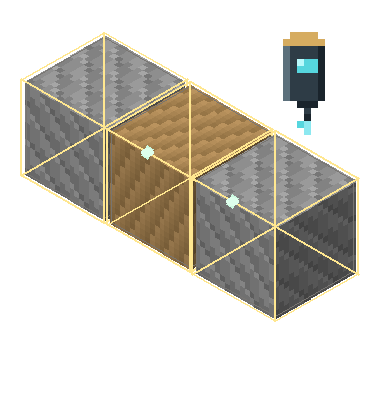
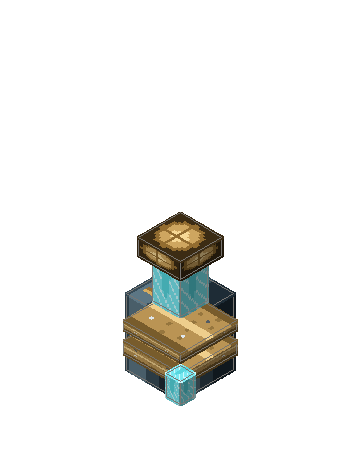
v0.9.1: 接着剤を 3D アイテムモデルに（アトラス1枚＋elements 8個）

diff --git a/tools/generate_textures.py b/tools/generate_textures.py
@@ -761,3 +761,100 @@ make_engine_part_textures()
 
 
 
+
+
+# ----------------------------------------------------------------------
+# 接着剤（3D モデル用アトラス）
+#   1 枚の PNG（64x32）に 4 セルをまとめ、UV を切り替えて組み立てる
+#     (0,0) キャップ上面 / (1,0) 金属の帯 / (2,0) ボトル側面 / (3,0) 接着剤の帯
+# ----------------------------------------------------------------------
+def make_adhesive_atlas():
+    CELL = SIZE  # 16
+    atlas = Image.new("RGBA", (CELL * 4, CELL * 2), (0, 0, 0, 0))
+
+    # --- (0,0) 真鍮のキャップ上面 ---
+    cap = Image.new("RGBA", (CELL, CELL))
+    cap_hi = (246, 216, 150, 255)
+    cap_mid = (206, 166, 96, 255)
+    cap_low = (146, 108, 48, 255)
+    for y in range(CELL):
+        for x in range(CELL):
+            d = math.hypot(x - 7.5, y - 7.5)
+            if d > 6.6:
+                c = (60, 44, 20, 255)
+            elif d > 5.2:
+                c = cap_low
+            elif d > 2.6:
+                c = cap_mid
+            else:
+                c = cap_hi
+            cap.putpixel((x, y), c)
+    # 十字の溝
+    for i in range(3, 13):
+        cap.putpixel((i, 7), cap_low)
+        cap.putpixel((7, i), cap_low)
+    atlas.paste(cap, (0, 0))
+
+    # --- (1,0) 金属の帯（バンド） ---
+    band = Image.new("RGBA", (CELL, CELL))
+    for y in range(CELL):
+        for x in range(CELL):
+            v = (186, 148, 84, 255)
+            if y in (0, 1, 14, 15):
+                v = (120, 92, 44, 255)
+            elif y in (7, 8):
+                v = (238, 206, 140, 255)
+            elif (x * 3 + y) % 13 == 0:
+                v = (150, 118, 62, 255)
+            band.putpixel((x, y), v)
+    # ボルト
+    for bx in (3, 12):
+        band.putpixel((bx, 4), (222, 230, 236, 255))
+        band.putpixel((bx, 11), (84, 92, 100, 255))
+    atlas.paste(band, (CELL, 0))
+
+    # --- (2,0) ボトルの側面（樹脂＋シアンの窓） ---
+    bottle = Image.new("RGBA", (CELL, CELL))
+    resin_hi = (92, 118, 132, 255)
+    resin = (54, 74, 86, 255)
+    resin_low = (30, 44, 54, 255)
+    glow = (86, 214, 222, 255)
+    glow_hi = (200, 250, 255, 255)
+    for y in range(CELL):
+        for x in range(CELL):
+            # 円柱の陰影（左が明るい）
+            f = 1.0 - abs(x - 3.0) / 13.0
+            c = resin_hi if f > 0.82 else (resin if f > 0.5 else resin_low)
+            bottle.putpixel((x, y), c)
+    # 残量が見える小さなシアンの窓（縦長のスリット）
+    for y in range(7, 13):
+        for x in range(6, 10):
+            d = math.hypot(x - 7.5, y - 9.5)
+            bottle.putpixel((x, y), glow if d < 1.9 else (40, 104, 118, 255))
+    bottle.putpixel((7, 9), glow_hi)
+    bottle.putpixel((8, 8), glow_hi)
+    # ラベルの筋
+    for x in range(2, 14):
+        bottle.putpixel((x, 3), (214, 172, 96, 255))
+        bottle.putpixel((x, 4), (150, 108, 48, 255))
+    atlas.paste(bottle, (CELL * 2, 0))
+
+    # --- (3,0) 接着剤の帯（ノズル／滴り） ---
+    nozzle = Image.new("RGBA", (CELL, CELL))
+    for y in range(CELL):
+        for x in range(CELL):
+            v = (120, 232, 240, 255) if (x + y) % 5 else (200, 250, 255, 255)
+            nozzle.putpixel((x, y), v)
+    # 滴り
+    for y in range(4, 16):
+        w = 1 + (y // 6)
+        for x in range(8 - w, 8 + w):
+            nozzle.putpixel((x, y), (86, 214, 222, 255))
+    atlas.paste(nozzle, (CELL * 3, 0))
+
+    item_dir = os.path.join(root, "src/main/resources/assets/astranautics/textures/item")
+    atlas.save(os.path.join(item_dir, "adhesive_atlas.png"))
+    print("generated: adhesive_atlas.png (%dx%d)" % (atlas.width, atlas.height))
+
+
+make_adhesive_atlas()

diff --git a/tools/render_preview.py b/tools/render_preview.py
@@ -175,6 +175,41 @@ def render_physicalizer():
 # ----------------------------------------------------------------------
 # 2. 接着剤（3 ブロック＋接着ライン＋範囲枠）
 # ----------------------------------------------------------------------
+def render_adhesive_3d():
+    """3D アイテムモデル（接着剤）の等角図。"""
+    global SCALE, ORIGIN_Y, W, H
+    SCALE, ORIGIN_Y, W, H = 210, 0.72, 360, 460
+    atlas = load(os.path.join(TEX_ITEM, "adhesive_atlas.png"))
+
+    def cell(index):
+        tile = atlas.crop((index * 16, 0, (index + 1) * 16, 16))
+        return tile.resize((16 * 8, 16 * 8), Image.NEAREST)
+
+    cap = cell(0)
+    band = cell(1)
+    bottle = cell(2)
+    nozzle = cell(3)
+
+    canvas = Image.new("RGBA", (W, H), (0, 0, 0, 0))
+
+    # 本体（ボトル）：from 5.5..10.5 / y 2..8（帯より必ず内側）
+    draw_box(canvas, bottle, 0, 0.0, 0, 0.148, 0.18, 0.148, steps=70)
+    # 金属の帯 2 本（本体より少しだけ大きく）
+    draw_box(canvas, band, 0, -0.075, 0, 0.155, 0.030, 0.155, steps=70)
+    draw_box(canvas, band, 0, 0.030, 0, 0.155, 0.020, 0.155, steps=70)
+    # 首（spout）
+    draw_box(canvas, nozzle, 0, 0.245, 0, 0.075, 0.10, 0.075, steps=60)
+    # ノズル
+    draw_box(canvas, nozzle, 0, 0.345, 0, 0.062, 0.038, 0.062, steps=60)
+    # キャップ
+    draw_box(canvas, cap, 0, 0.405, 0, 0.115, 0.043, 0.115, steps=70)
+    # 滴り
+    draw_box(canvas, nozzle, 0, -0.255, 0, 0.038, 0.055, 0.038, steps=50)
+
+    canvas.save(os.path.join(OUT_DIR, "adhesive.png"))
+    print("generated:", os.path.join(OUT_DIR, "adhesive.png"))
+
+
 def render_adhesive():
     global SCALE, ORIGIN_Y, H
     SCALE, ORIGIN_Y, H = 126, 0.60, 400
@@ -266,7 +301,7 @@ def render_block(name, tex_names, scale=196, origin_y=0.58):
 def main():
     os.makedirs(OUT_DIR, exist_ok=True)
     render_physicalizer()
-    render_adhesive()
+    render_adhesive_3d()
     render_block("thruster", ("thruster_top.png", "thruster_side.png", "thruster_front.png"))
     render_block("ship_helm", ("ship_helm_top.png", "ship_helm_side.png",
                                "ship_helm_front.png"))

diff --git a/README.md b/README.md
@@ -64,6 +64,14 @@ Minecraft **Forge 1.20.1** 用の MOD プロジェクトです。
 - **回転はしません**。姿勢を保持したまま、平行移動だけで物理挙動を表現します。
 - 落下・バウンス・接地摩擦・スリープ・物理化ブロック同士の接触インパルスに対応。
 
+## 接着剤の 3D アイテムモデル v0.9.1
+
+接着剤を手に持ったとき・GUI・地面に置いたときに **本物の 3D 形状**で表示されるようにしました。
+
+- 要素（elements）8 個でボトルを組み立て：ボトル本体・真鍮の帯 2 本・首・ノズル・真鍮キャップ・滴り・カラー
+- テクスチャは **1 枚のアトラス**（`textures/item/adhesive_atlas.png` 64×32、4 セル）で UV 切替
+- `display` で三人称・一人称・GUI・地面・額縁の姿勢を個別に調整（手に馴染む角度に）
+
 ## ブロック別 Ponder v0.9.0
 
 全ブロックに**専用の思考 UI** を用意しました。UI の配色（外枠・ヘッダー・背景・進捗バー）もブロックごとに変わります。
